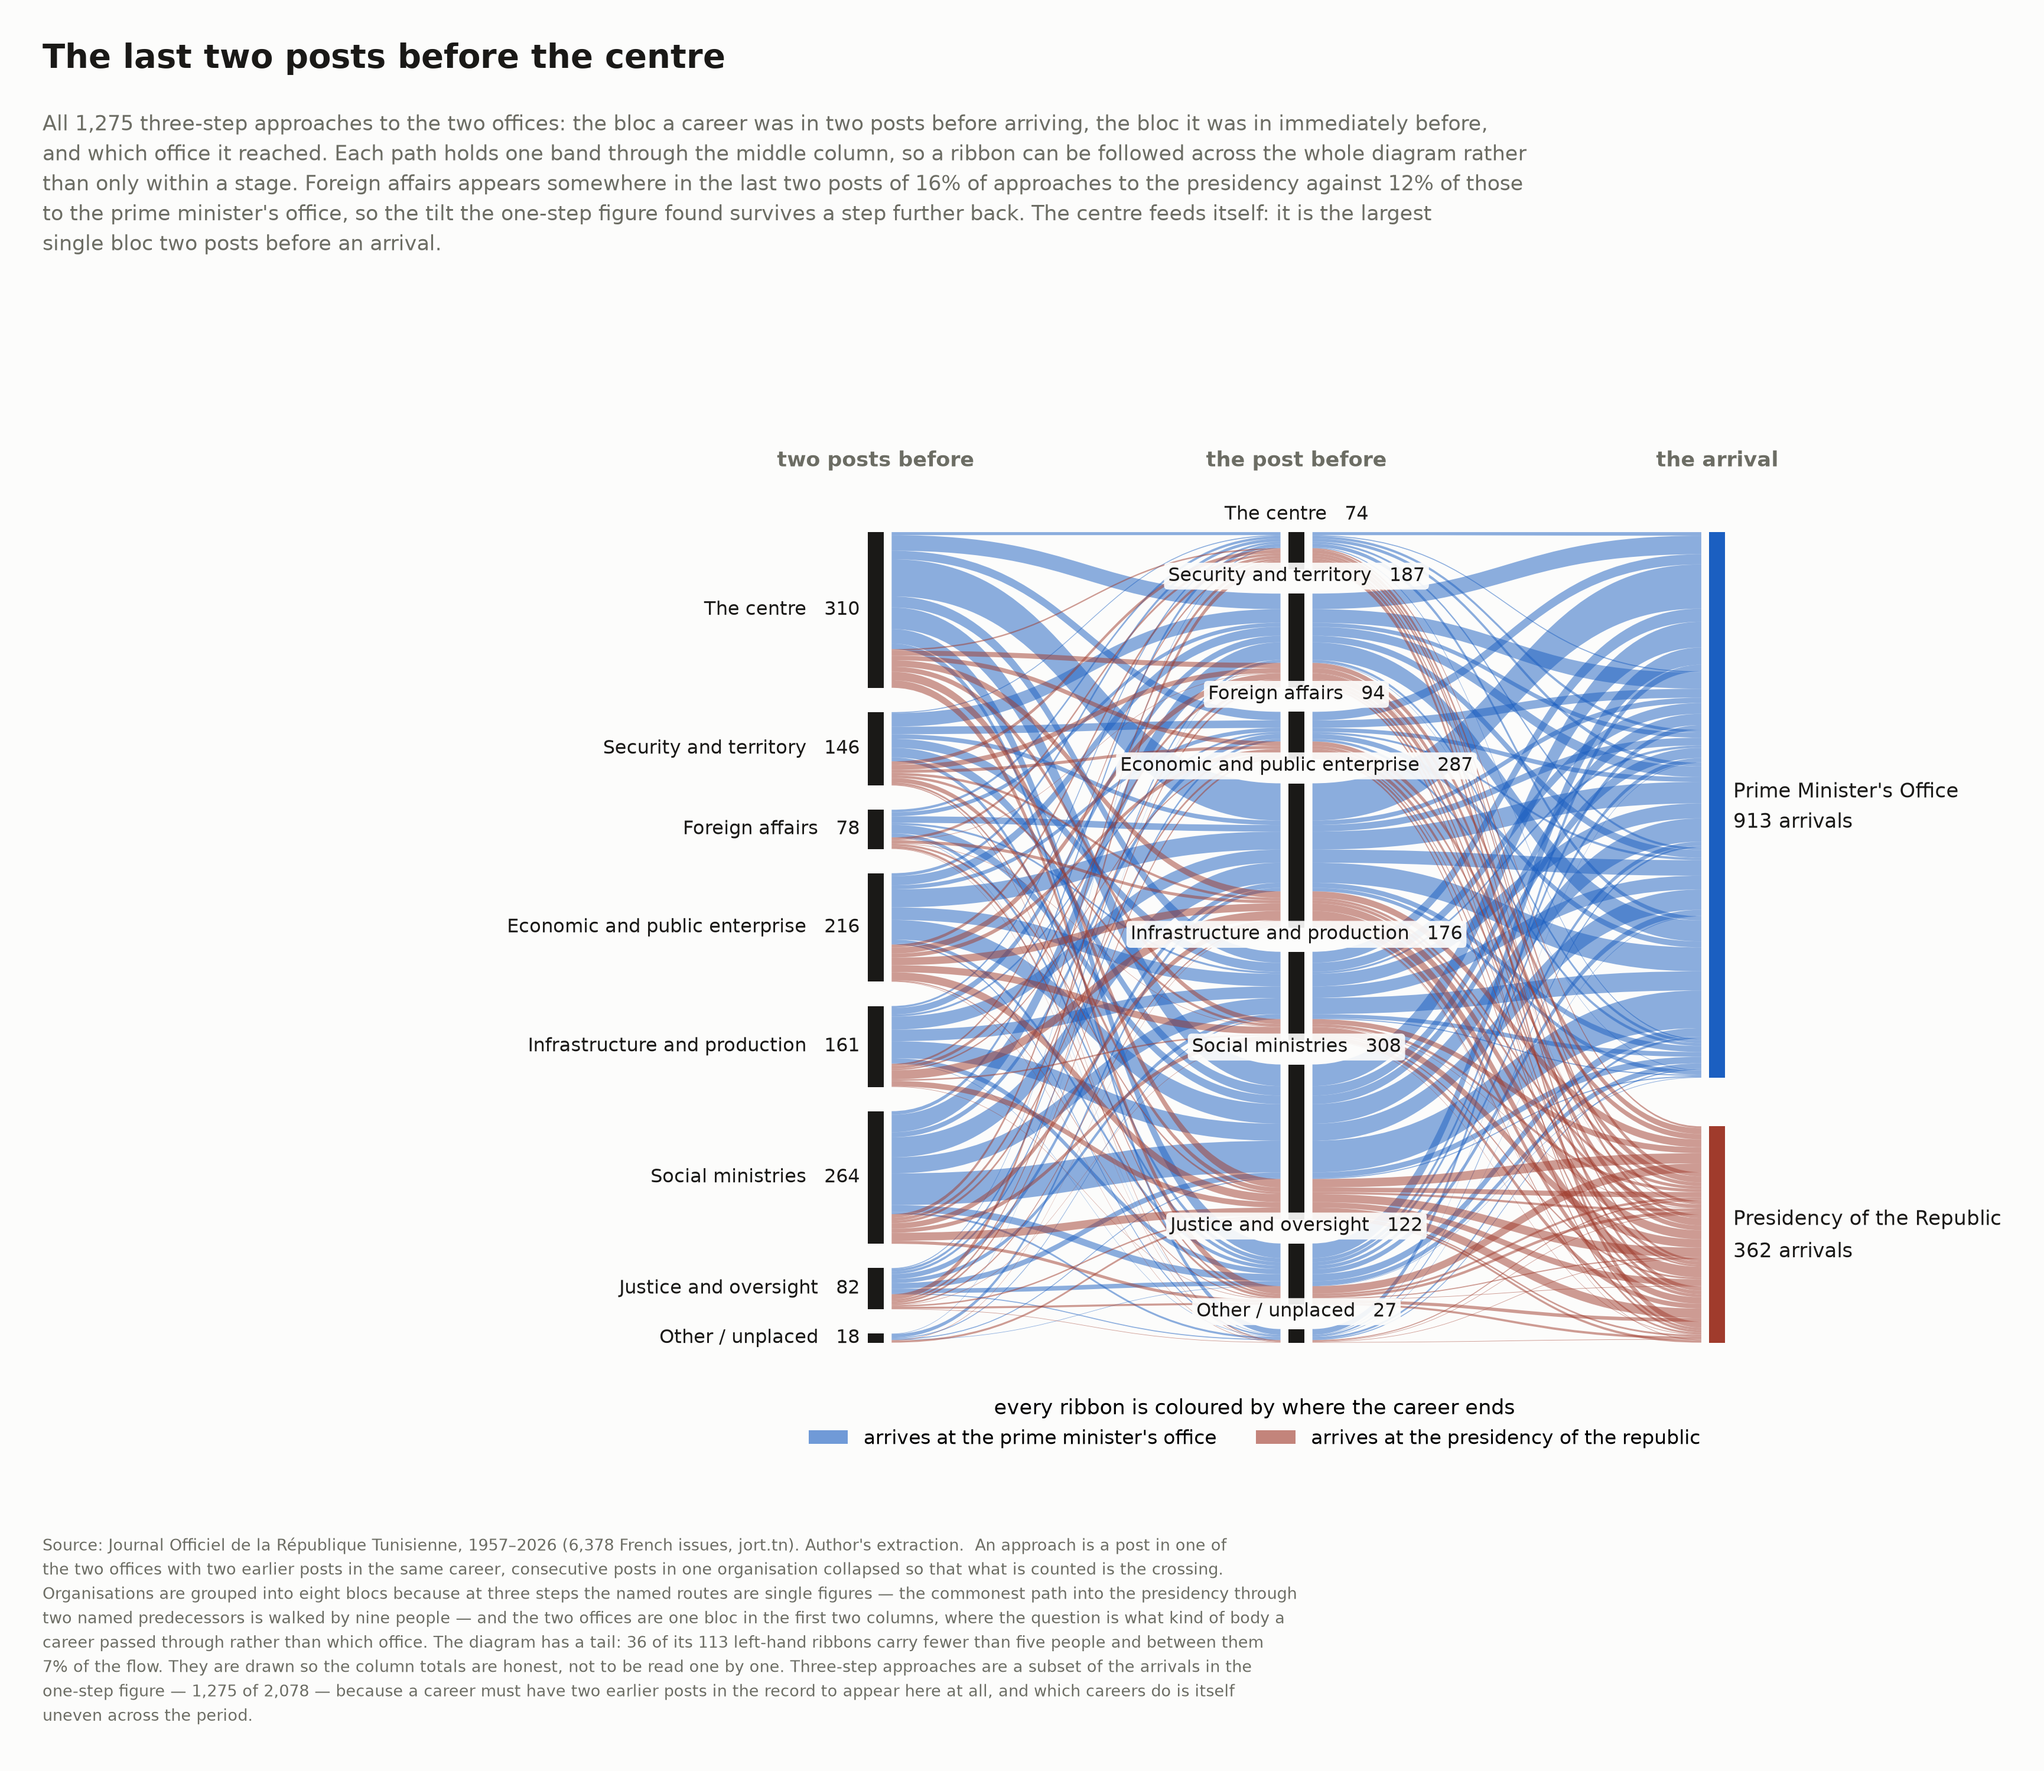
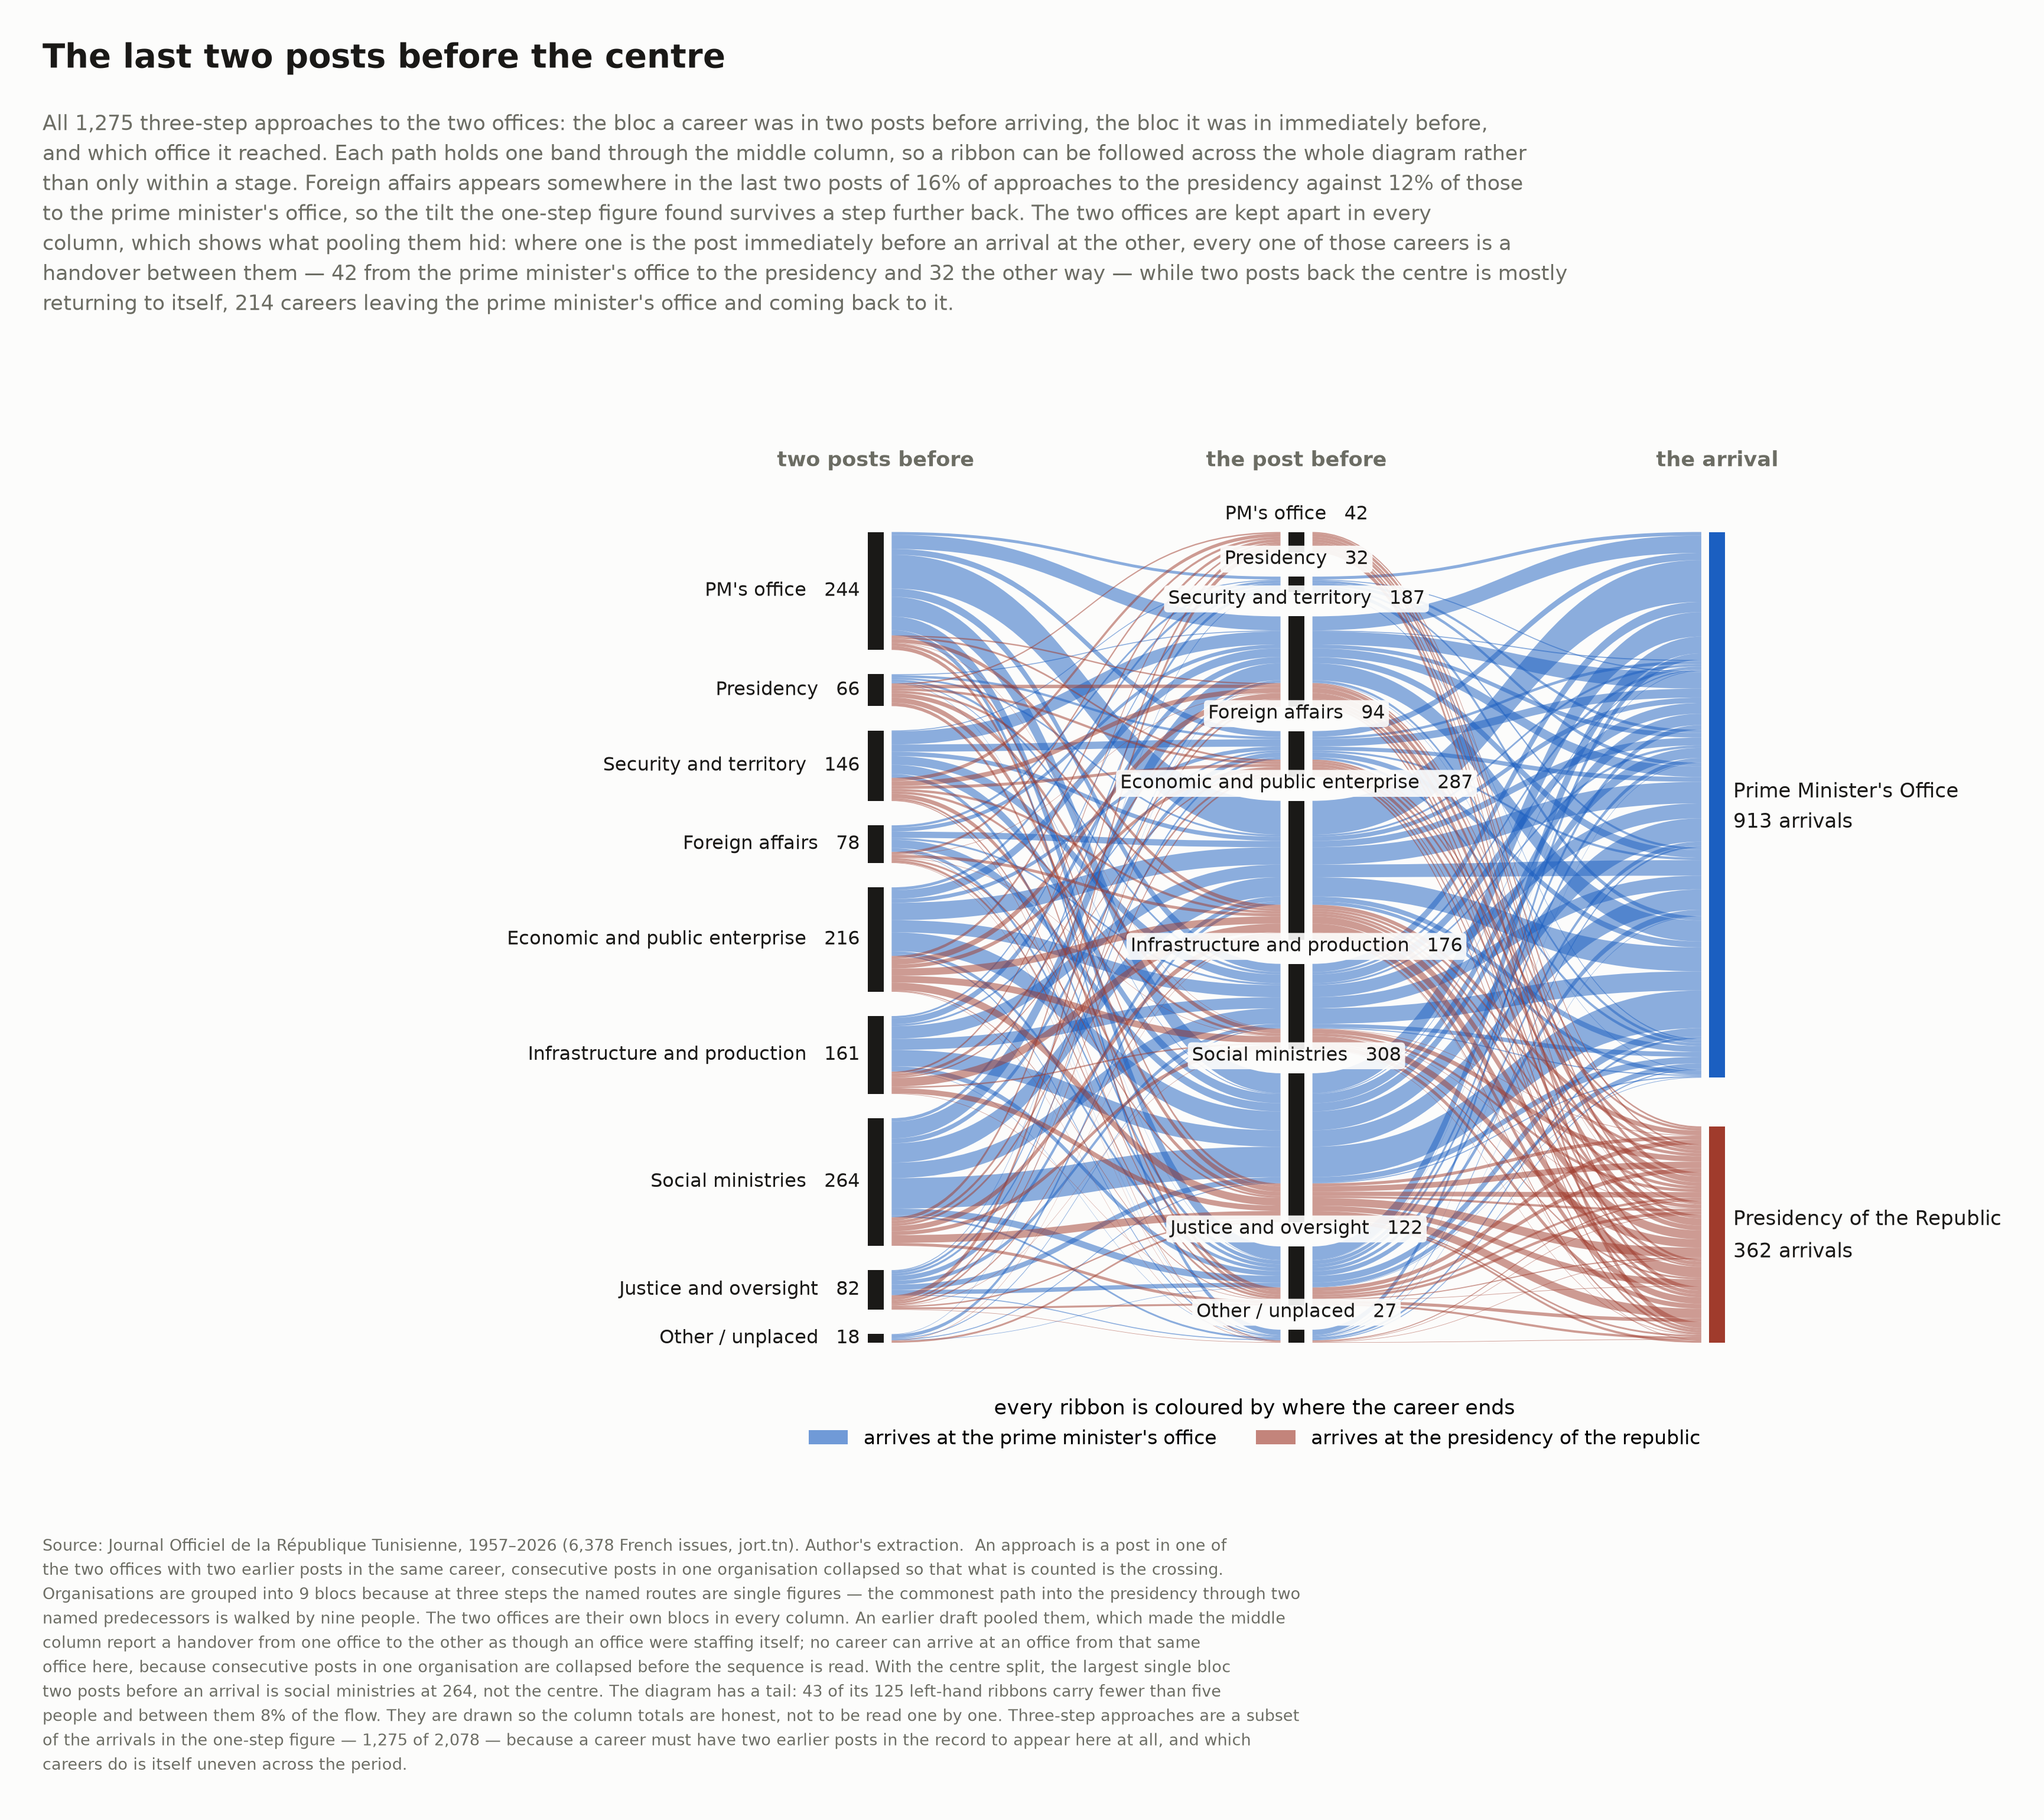
Split the centre in fig32, which changes what the middle column says
Pooling the prime minister's office and the presidency into one "centre"
bloc was hiding the thing most worth seeing, and it made one of the
figure's own claims false.

Pooled, the middle column showed 74 careers passing through "the centre"
on the way to the centre, which reads as an office staffing itself. Split,
that 74 is 42 careers from the prime minister's office to the presidency
and 32 the other way, and none of it same-office - consecutive posts in
one organisation are collapsed before the sequence is read, so arriving at
an office from that same office is not something the data can contain. The
pooled bloc was reporting a handover between the two offices as
self-recruitment.

Two posts back the picture is the opposite and the pooling hid that too:
there the centre is mostly returning to itself, 214 careers leaving the
prime minister's office and coming back to it, 47 doing the same at the
presidency. Out-and-back at two steps, handover at one.

The subtitle's claim that "the centre feeds itself: it is the largest
single bloc two posts before an arrival" was true only of the pooled bloc.
Split, the largest is social ministries at 264 against the prime
minister's office's 244, and the note now says so and computes it rather
than asserting it.

Numbers that moved with the extra column and were carried rather than
left: the tail is now 43 of 125 left-hand ribbons and 8% of the flow, not
36 of 113 and 7%, and the bloc count in the note reads off ORDER instead
[…]

diff --git a/scripts/figures_centre_paths.py b/scripts/figures_centre_paths.py
@@ -17,9 +17,13 @@ people who went on to the presidency.
 
 **The cost of three steps.** Named routes will not carry a ranking at this
 depth — the commonest path into the presidency through two named predecessors
-is walked by nine people — so the organisations are grouped into eight blocs.
-Even then the diagram has a tail: 36 of its 113 left-hand ribbons are fewer
-than five people, and together they carry 7% of the flow. Read the columns and
+is walked by nine people — so the organisations are grouped into nine blocs.
+The two offices are not pooled into one of them: doing that made the middle
+column report a handover between them as though an office were staffing
+itself.
+
+Even then the diagram has a tail: 43 of its 125 left-hand ribbons are fewer
+than five people, and together they carry 8% of the flow. Read the columns and
 the thick bands; the hairlines are there so the totals are honest, not to be
 read individually.
 """
@@ -50,14 +54,23 @@ OFFICES = [PM, PRESIDENCY]
 # protan, 27.9 normal.
 OFFICE_COLOUR = {PM: CAT4[1], PRESIDENCY: CAT4[0]}
 
-CENTRE = "The centre"
+PM_BLOC = "PM's office"
+PR_BLOC = "Presidency"
 UNPLACED = "Other / unplaced"
 
-# Eight blocs. Twenty-eight organisations at three steps gives a diagram whose
-# every cell is one or two people; these are the same groupings the outflow
-# figures use, with the two offices folded together because at this depth the
-# question is what kind of body a career passed through, not which of the two.
-BLOC = {CENTRE: [PM, PRESIDENCY],
+# Nine blocs. Twenty-eight organisations at three steps gives a diagram whose
+# every cell is one or two people, so the rest are grouped as in the outflow
+# figures — but the two offices are kept apart in every column.
+#
+# Folding them into one "centre" bloc, as an earlier draft did, hid the thing
+# worth seeing. Pooled, the middle column showed 74 careers passing through
+# "the centre" on their way to the centre, which reads as an office staffing
+# itself. Split, that 74 is 42 from the prime minister's office to the
+# presidency and 32 the other way, and *none* of it same-office: consecutive
+# posts in one organisation are collapsed, so arriving at an office from
+# itself is not a thing the data can contain. The pooled bloc was reporting a
+# handover between the two offices as if it were self-recruitment.
+BLOC = {PM_BLOC: [PM], PR_BLOC: [PRESIDENCY],
         "Security and territory": ["Interior ministry", "Governorates",
                                    "Municipalities", "Defence"],
         "Economic and public enterprise": ["Finance", "Economy",
@@ -78,7 +91,7 @@ BLOC = {CENTRE: [PM, PRESIDENCY],
                                   "Relations with Parliament"]}
 OF_ORG = {org: bloc for bloc, orgs in BLOC.items() for org in orgs}
 
-ORDER = ["The centre", "Security and territory", "Foreign affairs",
+ORDER = [PM_BLOC, PR_BLOC, "Security and territory", "Foreign affairs",
          "Economic and public enterprise", "Infrastructure and production",
          "Social ministries", "Justice and oversight", UNPLACED]
 
@@ -215,9 +228,21 @@ def fig_centre_paths(spells: pd.DataFrame) -> None:
     # Where the two offices' approaches differ one step further back than the
     # one-step figure could see.
     fa_pr = sum(v for (a, m, d), v in trip.items()
-                if d == PRESIDENCY and "Foreign" in (a + m))
+                if d == PRESIDENCY and "Foreign affairs" in (a, m))
     fa_pm = sum(v for (a, m, d), v in trip.items()
-                if d == PM and "Foreign" in (a + m))
+                if d == PM and "Foreign affairs" in (a, m))
+
+    # The handover between the two offices, which the pooled bloc concealed.
+    hand = {(m, d): sum(v for (_a, mm, dd), v in trip.items()
+                        if mm == m and dd == d)
+            for m in (PM_BLOC, PR_BLOC) for d in OFFICES}
+    back = {(a, d): sum(v for (aa, _m, dd), v in trip.items()
+                        if aa == a and dd == d)
+            for a in (PM_BLOC, PR_BLOC) for d in OFFICES}
+    first_col = Counter()
+    for (a, _m, _d), v in trip.items():
+        first_col[a] += v
+    biggest, biggest_n = first_col.most_common(1)[0]
 
     fig, ax = plt.subplots(figsize=(13.8, 8.4))
     fig.subplots_adjust(top=0.71, bottom=0.10, left=0.215, right=0.80)
@@ -240,21 +265,33 @@ def fig_centre_paths(spells: pd.DataFrame) -> None:
         "of approaches to the presidency against "
         f"{fa_pm / by_office[PM] * 100:.0f}% of those to the prime minister's "
         "office, so the tilt the one-step figure found survives a step further "
-        "back. The centre feeds itself: it is the largest single bloc two posts "
-        "before an arrival.",
+        "back. The two offices are kept apart in every column, which shows what "
+        "pooling them hid: where one is the post immediately before an arrival "
+        "at the other, every one of those careers is a handover between them — "
+        f"{hand[(PM_BLOC, PRESIDENCY)]} from the prime minister's office to the "
+        f"presidency and {hand[(PR_BLOC, PM)]} the other way — while two posts "
+        f"back the centre is mostly returning to itself, {back[(PM_BLOC, PM)]} "
+        "careers leaving the prime minister's office and coming back to it.",
         width=142,
     )
     save(fig, "fig32_centre_three_step",
          SOURCE + "  An approach is a post in one of the two offices with two "
                   "earlier posts in the same career, consecutive posts in one "
                   "organisation collapsed so that what is counted is the "
-                  "crossing. Organisations are grouped into eight blocs because "
+                  f"crossing. Organisations are grouped into {len(ORDER)} blocs "
+                  "because "
                   "at three steps the named routes are single figures — the "
                   "commonest path into the presidency through two named "
-                  "predecessors is walked by nine people — and the two offices "
-                  "are one bloc in the first two columns, where the question is "
-                  "what kind of body a career passed through rather than which "
-                  "office. The diagram has a tail: "
+                  "predecessors is walked by nine people. The two offices are "
+                  "their own blocs in every column. An earlier draft pooled "
+                  "them, which made the middle column report a handover from "
+                  "one office to the other as though an office were staffing "
+                  "itself; no career can arrive at an office from that same "
+                  "office here, because consecutive posts in one organisation "
+                  "are collapsed before the sequence is read. With the centre "
+                  f"split, the largest single bloc two posts before an arrival "
+                  f"is {biggest.lower()} at {biggest_n}, not the centre. "
+                  "The diagram has a tail: "
                   f"{sum(1 for v in trip.values() if v < 5)} of its "
                   f"{len(trip)} left-hand ribbons carry fewer than five people "
                   f"and between them {thin / n * 100:.0f}% of the flow. They are "
